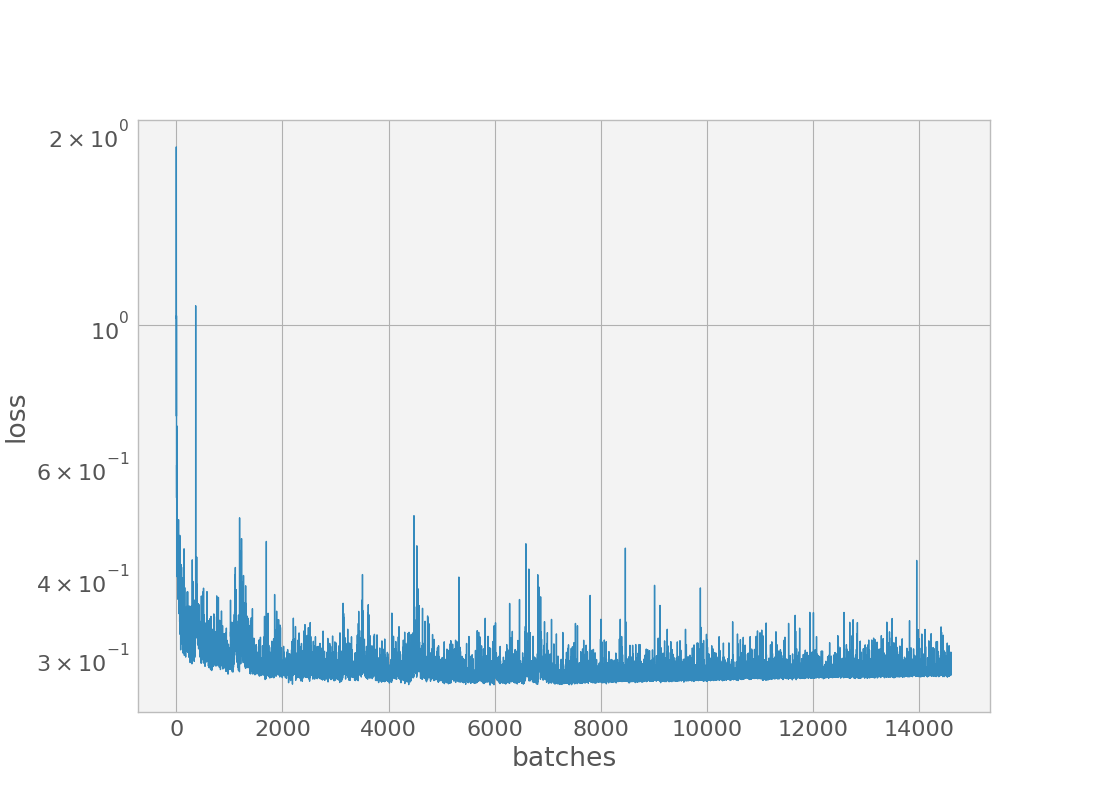
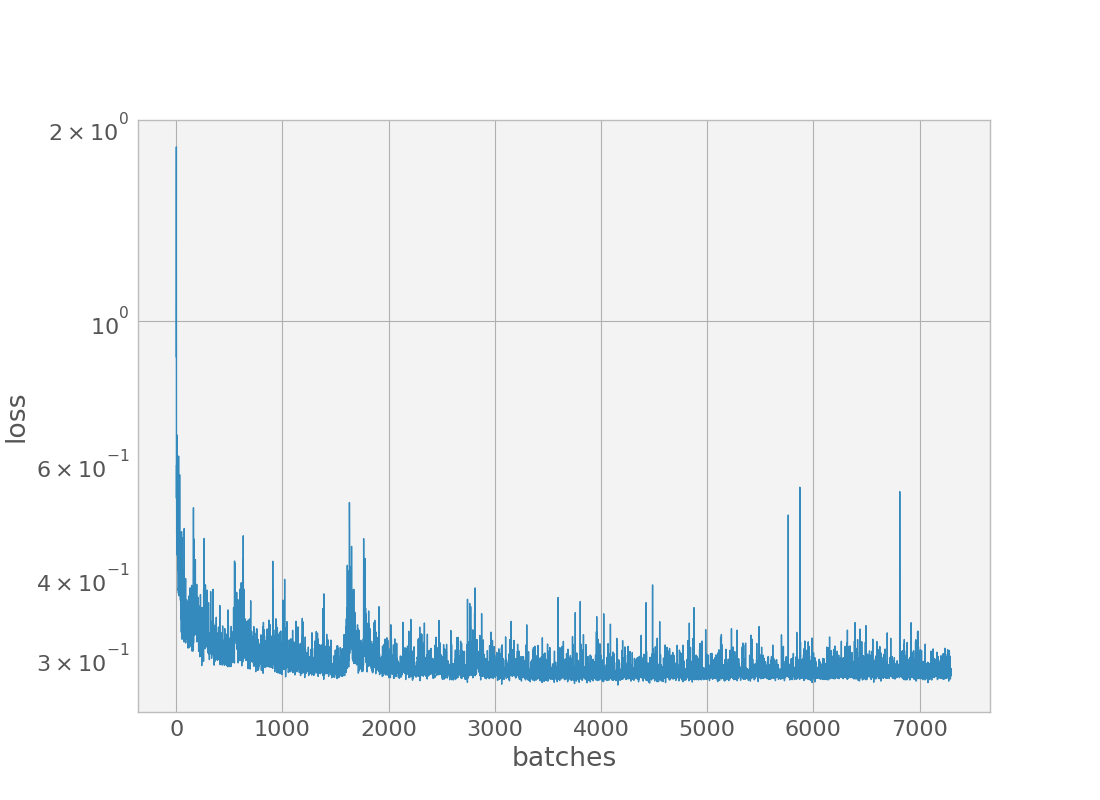
Decay the learning rate.

diff --git a/main.py b/main.py
@@ -240,7 +240,7 @@ tests.test_optimize(optimize)
 
 
 def train_nn(sess, epochs, batch_size, get_batches_fn, train_op, cross_entropy_loss, input_image,
-             correct_label, keep_prob, learning_rate, learning_rate_value=1e-3):
+             correct_label, keep_prob, learning_rate, learning_rate_value=1e-3, decay_factor=1.0):
     """
     Train neural network and print out the loss during training.
     :param sess: TF Session
@@ -280,6 +280,7 @@ def train_nn(sess, epochs, batch_size, get_batches_fn, train_op, cross_entropy_l
                                 learning_rate: learning_rate_value,
                             }
                         )[1]
+                    learning_rate_value *= decay_factor
                     epoch_losses.append(loss_value)
                     results.append(loss_value)
                     update()
@@ -287,7 +288,11 @@ def train_nn(sess, epochs, batch_size, get_batches_fn, train_op, cross_entropy_l
                     label = ' (%s)' % op.name
                 else:
                     label = ''
-                print('Epoch %d of %d%s mean loss:' % (epoch+1, epochs, label), np.mean(epoch_losses))
+                print(
+                    'Epoch %d of %d%s mean loss:' % (epoch+1, epochs, label), 
+                    np.mean(epoch_losses),
+                    '(LR=%E)' % learning_rate_value,
+                )
     except (KeyboardInterrupt, ValueError) as e:
         print('Caught %s exception: "%s"' % (type(e).__name__, e))
 
@@ -382,10 +387,10 @@ def run():
         # Train NN using the train_nn function
         train_losses = np.array(train_nn(
             sess,
-            epochs=100, batch_size=4, get_batches_fn=get_batches_fn, 
+            epochs=50, batch_size=4, get_batches_fn=get_batches_fn, 
             train_op=[train_op_incl_vgg16, train_op], cross_entropy_loss=cross_entropy_loss, input_image=input_image,
             correct_label=correct_label, keep_prob=keep_prob, learning_rate=learning_rate,
-            learning_rate_value=1e-4
+            learning_rate_value=1e-4, decay_factor=.96,
         ))
 
         # Save inferences
